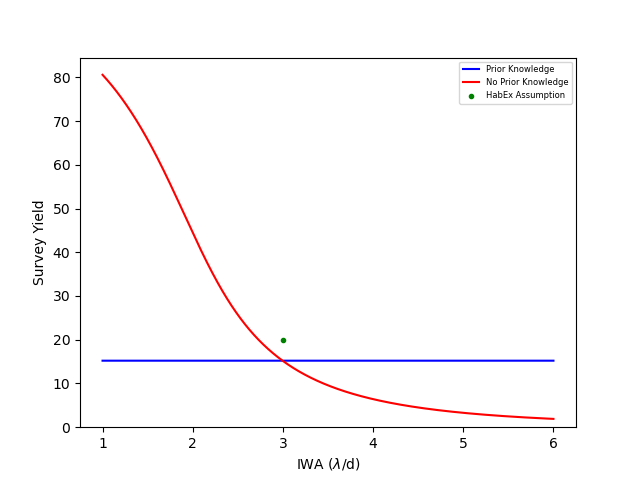
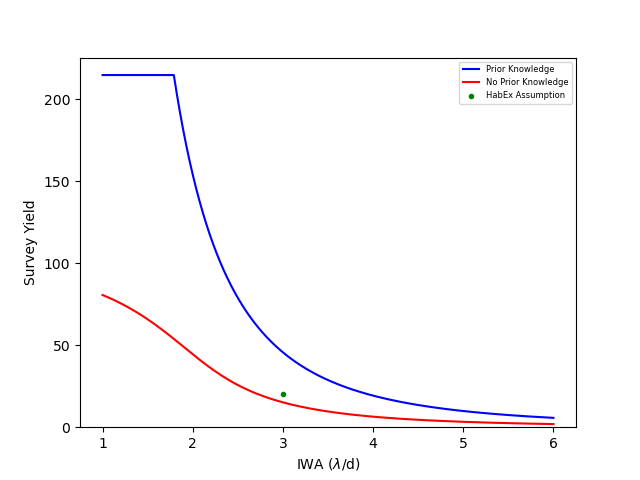
Fixed iwafac graph

diff --git a/dgraphs.py b/dgraphs.py
@@ -127,6 +127,8 @@ npf64 = np.float64
 # Just shortening these, to make expressions more concise.
 m = np.multiply; d = np.divide; a = np.add; s = np.subtract; e=np.e; pi=np.pi
 
+slewtimeoverhead=0.55
+
 h=npf64("6.62607015e-27")      # Planck's constant,            in erg-seconds
 c=npf64('299792458')           # Speed of light,               in meters/second
 k=npf64("1.380649e-16")        # Boltzmann constant,           in erg-kelvins
@@ -336,13 +338,13 @@ def Noplus_photon_prior(da, la, avara, rhostara, etaeartha, snr0a, Ra, Ka, epsa,
 
 def Noplus_iwa_prior(da, la, avara, rhostara, etaeartha, snr0a, Ra, Ka, epsa, Ta, iwafaca, rvala):
     cubes = np.power(d(m(avara,da),la),3)
-    linear = m(4*pi/81, m(rhostara, etaeartha))
+    linear = m(4*pi, d(m(rhostara, etaeartha),np.power(iwafaca,3)))
     res = m(linear, cubes)
     try:
         len(res)
         return res
     except:
-        return [res for i in m(m(m(snr0a, Ra), m(Ka, epsa)),m(Ta,m(iwafaca,rvala)))]
+        return [res for i in m(m(m(snr0a, Ra), m(Ka, epsa)),m(Ta,rvala))]
 
 # Now we get to actually graph all these things.
 
